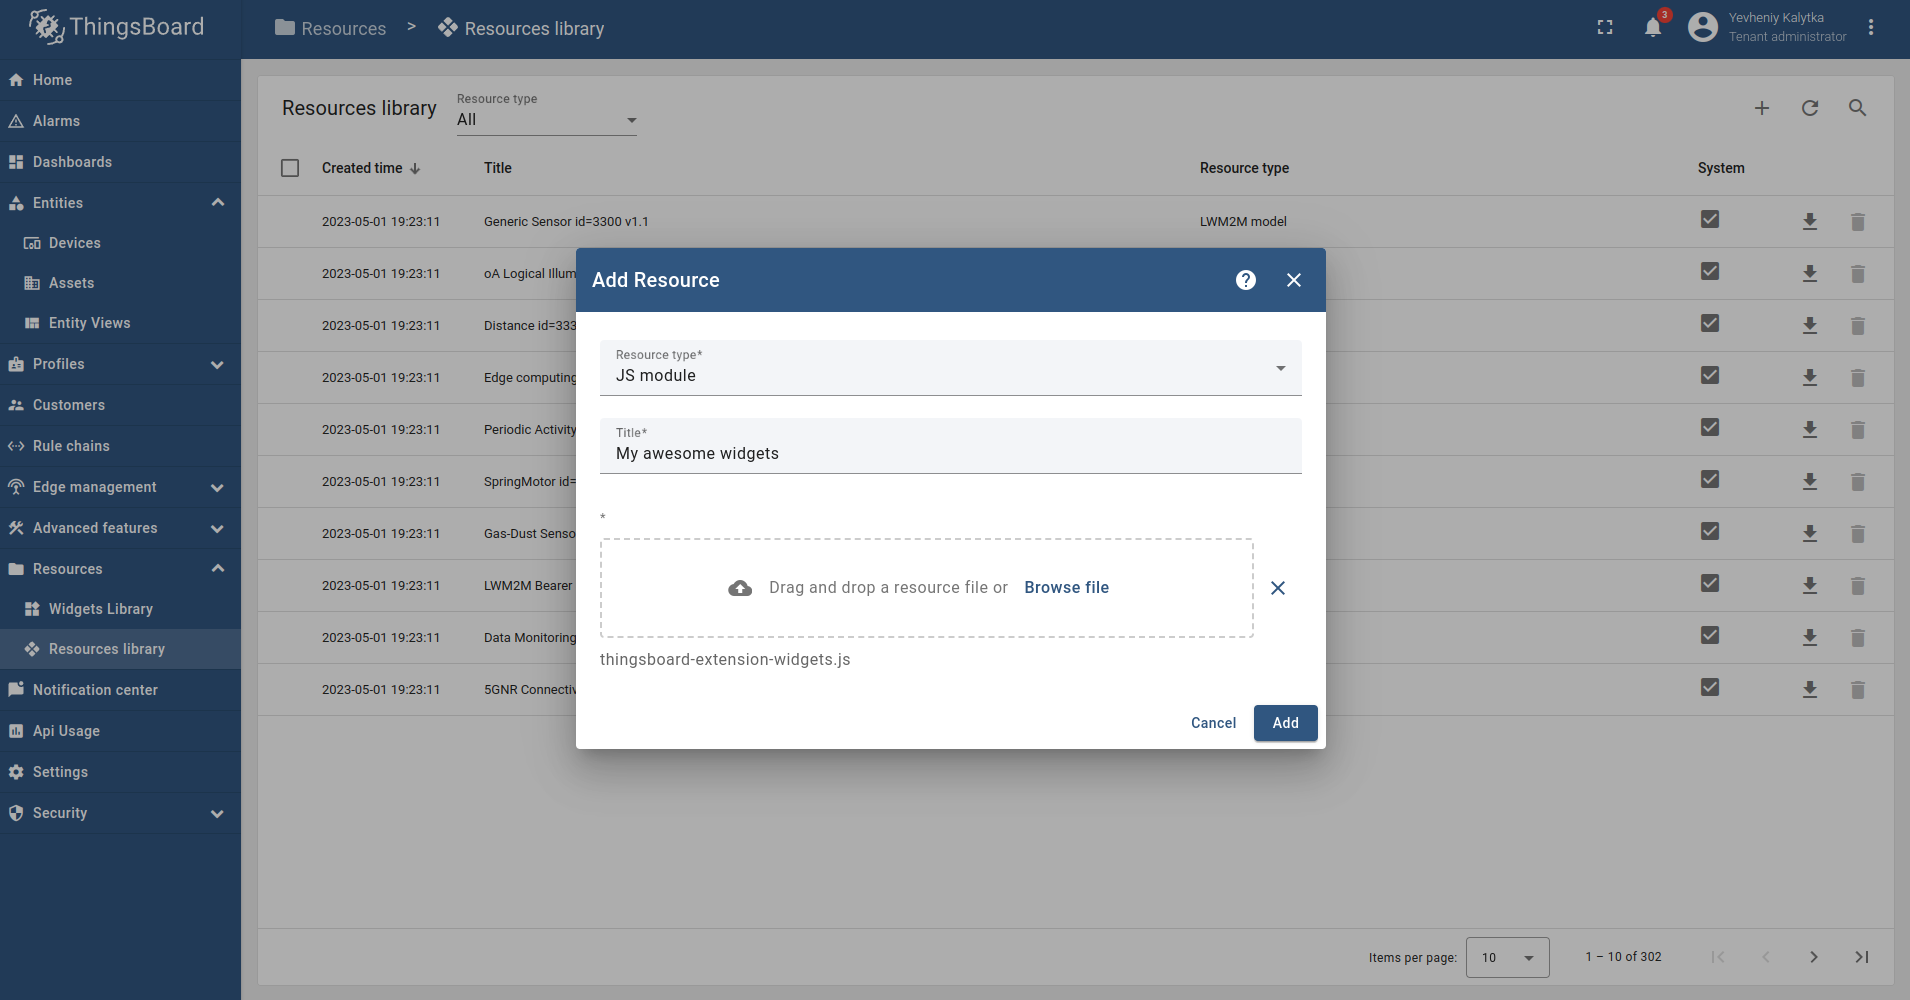
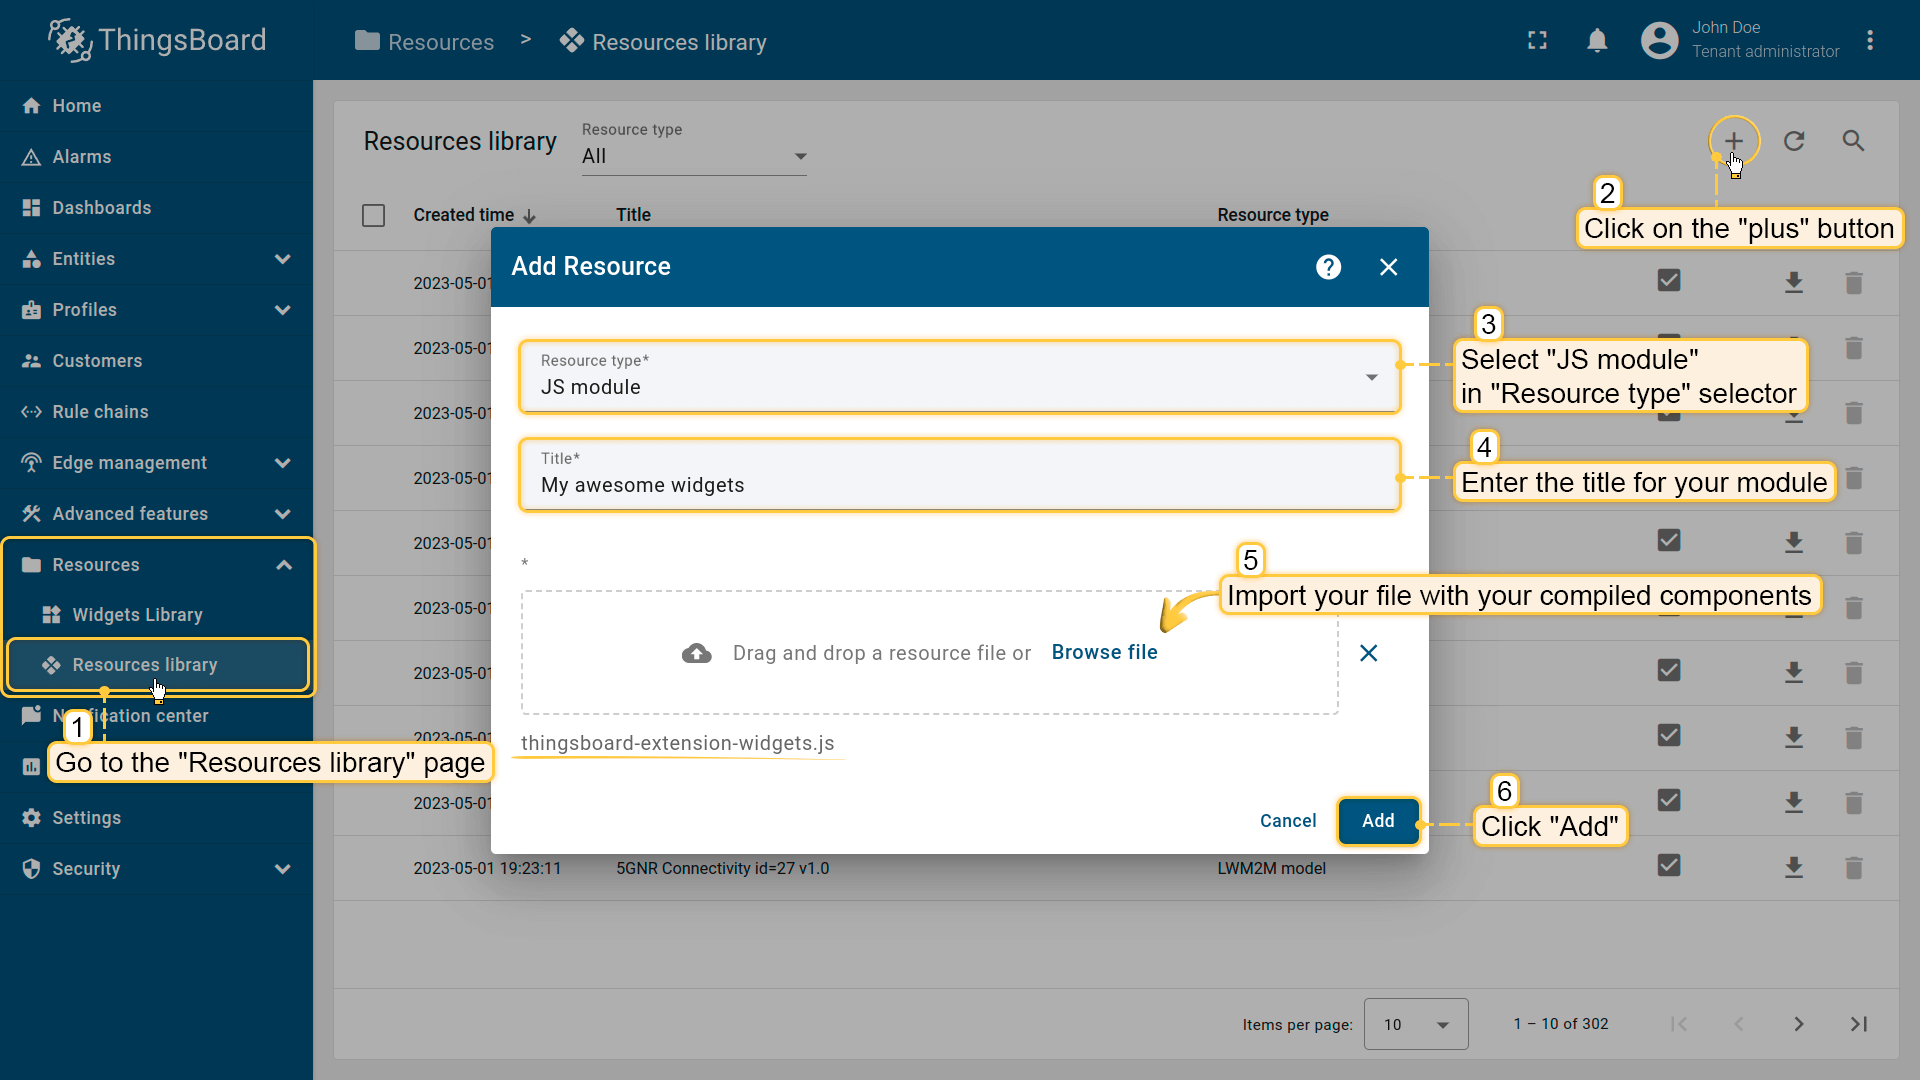
minor edited text and updated screenshots

diff --git a/_includes/docs/user-guide/contribution/widgets-development.md b/_includes/docs/user-guide/contribution/widgets-development.md
@@ -2022,25 +2022,31 @@ Browser debugger (if enabled) will automatically pause code execution at the deb
 We highly recommend using this feature for any complex logic in your solutions, because it provides you an opportunity to reuse your code, using all functionality of TypeScript, RXJS, Angular, etc.
 In this topic, we will cover how to connect your extensions in ThingsBoard 3.6 and higher using our UI.
 
+{% capture difference %}
 **Important remark**: you can use **extensions** even if you use previous versions of ThingsBoard(before 3.6). For this, you will need to load the extension file manually to your server and restart it. All the necessary information can be found in the **README** file in the corresponding branches of the extensions project. [This branch](https://github.com/thingsboard/thingsboard-extensions/tree/release-3.1) is used for the ThingsBoard 3.1.0 - 3.4.1 version and [this one](https://github.com/thingsboard/thingsboard-extensions/tree/release-3.5) is for 3.5 - 3.5.1 version.
+{% endcapture %}
+{% include templates/info-banner.md content=difference %}
 
 First of all, you need a file with your compiled components. By default, it is called **thingsboard-extension-widgets.js**. All instructions on how to create it can be found inside the **README** file to [ThingsBoard extensions](https://github.com/thingsboard/thingsboard-extensions).
 
-Once you have the file with your components, let's proceed to load them into ThingsBoard. Select **Resources library** inside **Resources** tab:
+Once you have the file with your components, let's proceed to load them into ThingsBoard. 
 
-![image](/images/user-guide/contribution/widgets/resources-library.png)
-
-Click the **add** button on right top corner of the window ("+" icon). In the open popup, select **JS module** in **Resource type** selector, enter **Title** for your module, and import your compiled file:
+Go to the "**Resources library**" page inside "**Resources**" section, and click the **add** button on right top corner of the window ("+" icon). 
+In the open popup, select **JS module** in **Resource type** selector, enter **Title** for your module, and import your compiled file:
 
 ![image](/images/user-guide/contribution/widgets/add-js-module.png)
 
 Congratulations, your components were added to the ThingsBoard!
 
-Now, let's use them in some widget. Go to the widget library:
+Now, let's use them in some widget. 
 
-![image](/images/user-guide/contribution/widgets/widget-library.png)
+Go to the "**Widgets library**" page inside "**Resources**" section. We shall create a simple static widget that will use components from our extensions (in case you have questions about how to create a new widget, you should read [this topic](#creating-new-widget-definition)).
 
-We shall create a simple static widget that will use components from our extensions (in case you have questions about how to create a new widget, you should read [this topic](#creating-new-widget-definition)). First of all, go to the **Resources** tab and choose your extensions module:
+![image](/images/user-guide/contribution/widgets/add-static-widget.png)
+
+<br>
+First of all, go to the **Resources** tab and choose your extensions module.
+
 <div class="info-banner">
   <img src="/images/doc-info-icon.svg" alt="Doc info icon" />   
   <div>
@@ -2048,13 +2054,25 @@ We shall create a simple static widget that will use components from our extensi
   </div>
 </div>
 
-![image](/images/user-guide/contribution/widgets/select-extensions-module.png)
+![image](/images/user-guide/contribution/widgets/select-extensions-module-2.png)
 
-Your module is connected to your widget. Now, you can use your angular components. Let's add a custom component in the **HTML** tab. To apply the changes, click the Save button:
+Your module is connected to your widget. Now, you can use your angular components. Let's add a custom component in the **HTML** tab. To apply the changes, click the Save button.
 
-![image](/images/user-guide/contribution/widgets/add-extensions-component.png)
+<div class="info-banner">
+  <img src="/images/doc-info-icon.svg" alt="Doc info icon" />   
+  <div>
+    <p><strong>Important!</strong> Don’t forget to clean the default <strong>self.onInit</strong> function!</p>
+  </div>
+</div>
 
-Now, your component is used inside your widget. In general, [ThingsBoard extensions](https://github.com/thingsboard/thingsboard-extensions) allows you to create any possible widgets in the scope of ThingsBoard platforms.
+![image](/images/user-guide/contribution/widgets/select-extensions-module-3.png)
+
+Now, your component is used inside your widget. 
+
+![image](/images/user-guide/contribution/widgets/select-extensions-module-4.png)
+
+<br>
+In general, [ThingsBoard extensions](https://github.com/thingsboard/thingsboard-extensions) allows you to create any possible widgets in the scope of ThingsBoard platforms.
 
 Good luck with your future awesome solutions!
 
